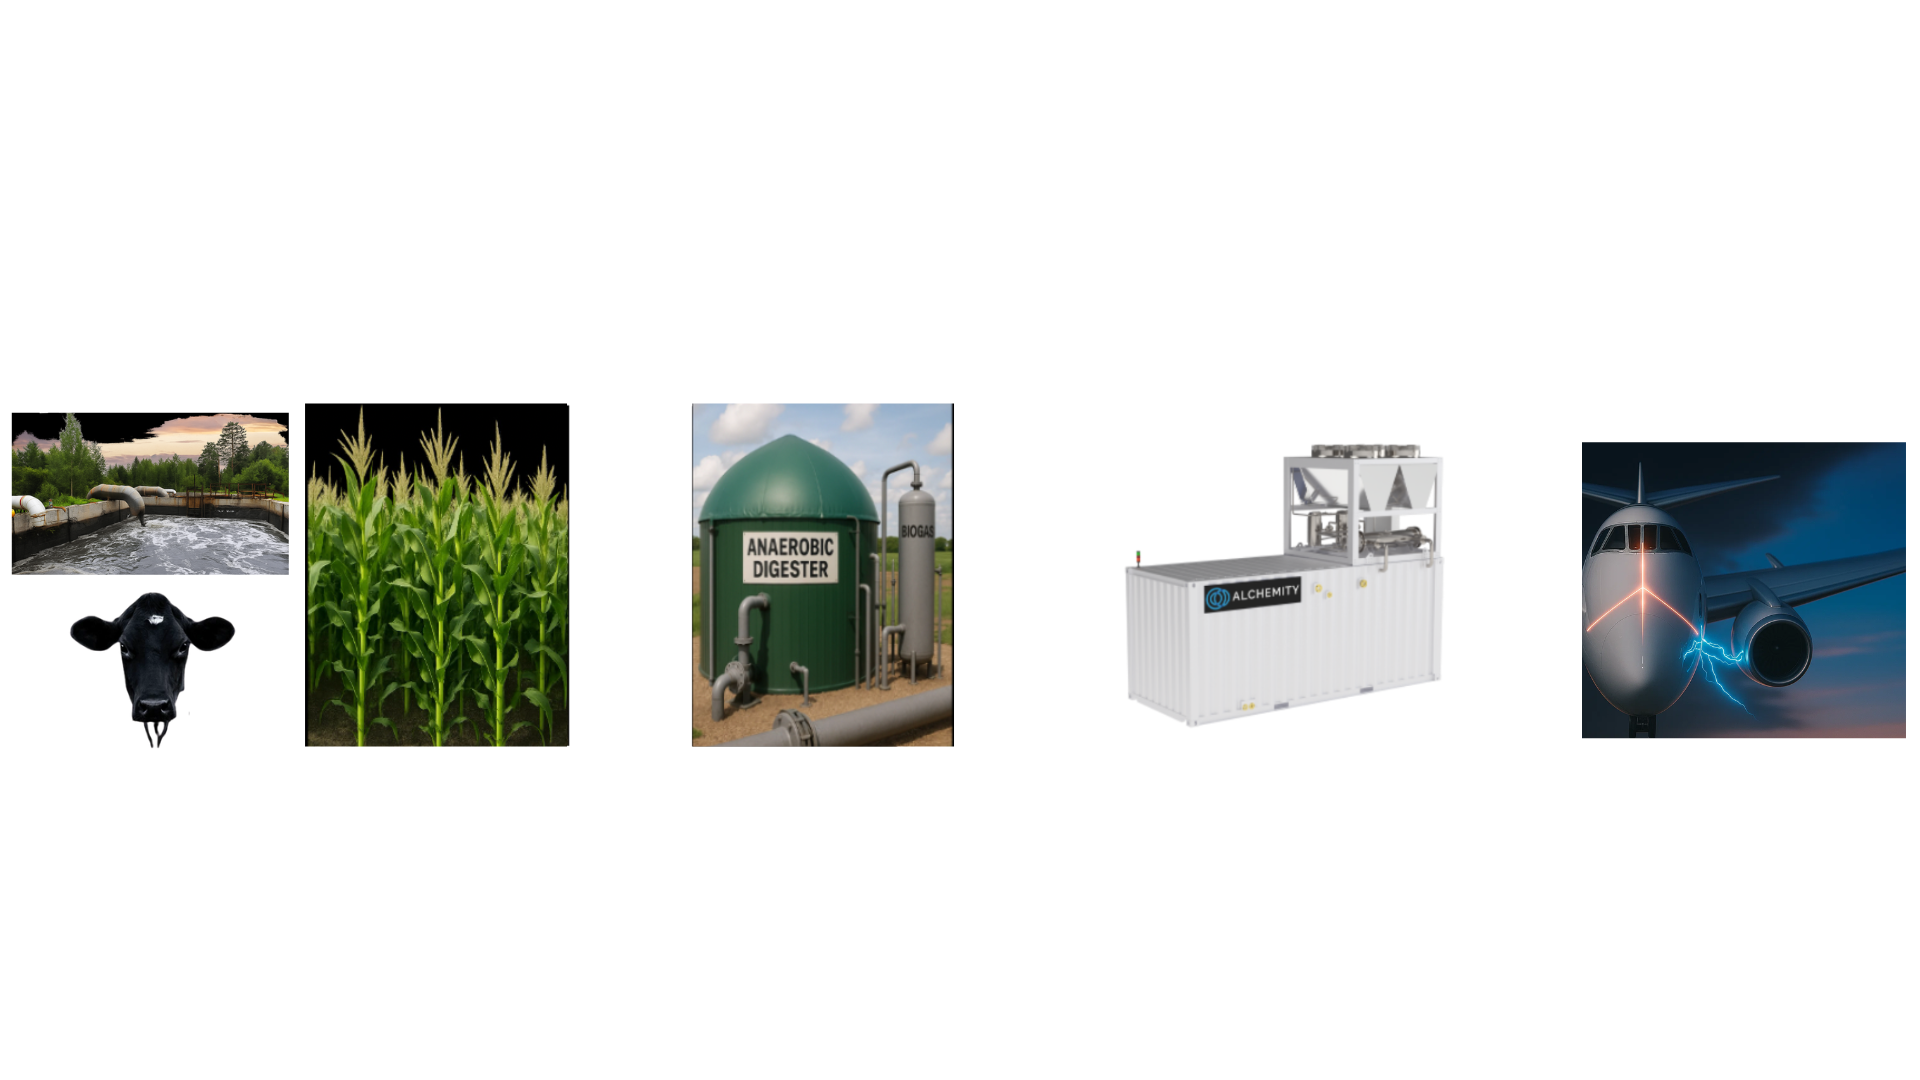
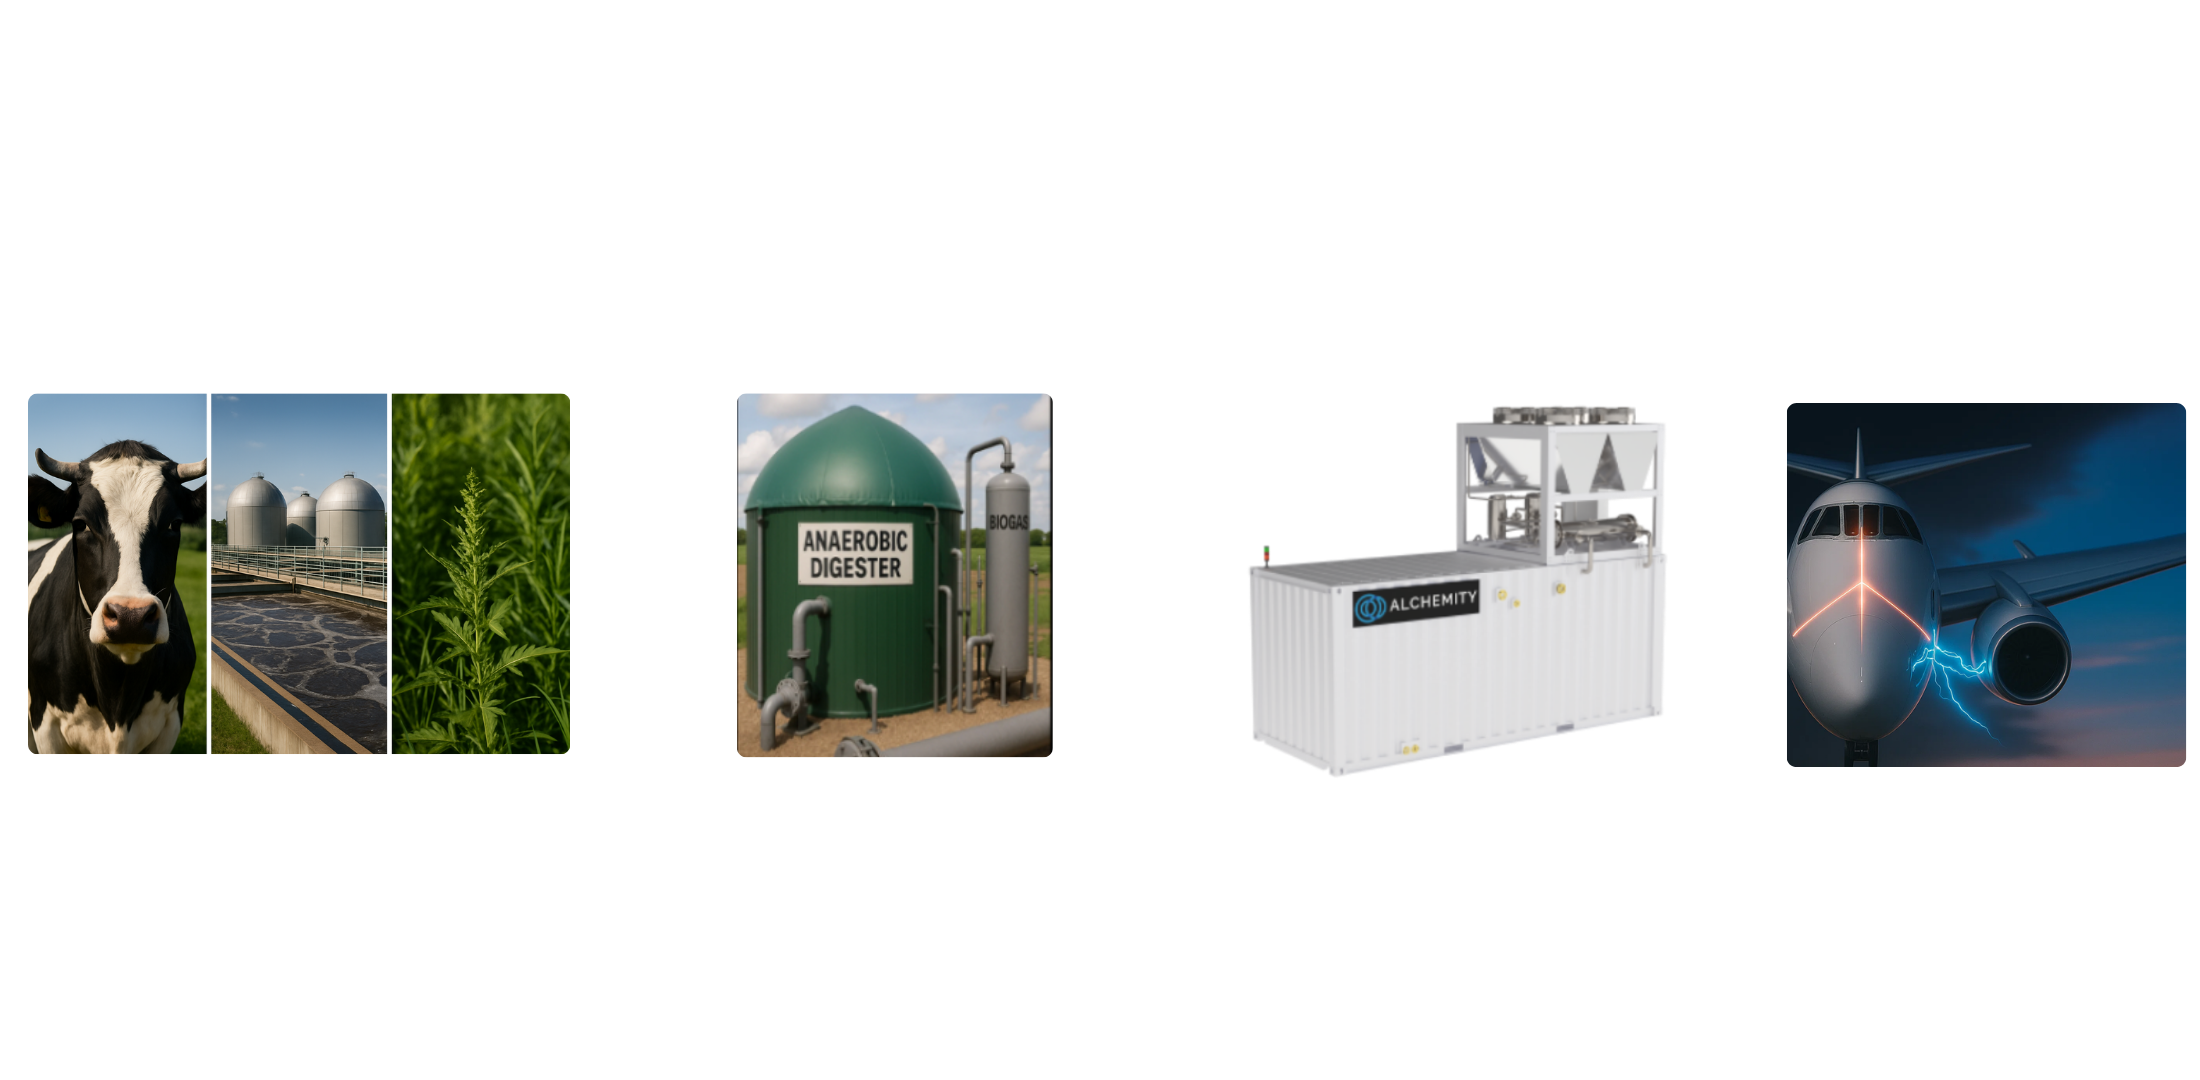
technology images updates

Changed region(s): [[0.0, 0.3667, 0.5, 0.7028], [0.8125, 0.3667, 1.0, 0.7333], [0.5625, 0.3667, 0.7812, 0.7333]]

diff --git a/src/pages/Technology.js b/src/pages/Technology.js
@@ -745,7 +745,7 @@ function Technology() {
               alt="Technology Header"
               style={{
                 width: "100%",
-                maxWidth: "700px",
+                maxWidth: "780px",
                 height: "auto",
                 borderRadius: "8px",
                 margin: "0 auto",
@@ -1484,7 +1484,7 @@ function Technology() {
                 marginBottom: "-8rem",
                 display: "block",
               }}
-              onClick={() => setActiveModal("biomass")}
+              // onClick={() => setActiveModal("biomass")}
             />
 
             {/* <div style={{ display: 'flex', justifyContent: 'center' }}>

diff --git a/src/pages/About.js b/src/pages/About.js
@@ -501,9 +501,9 @@ function About() {
                 today, not in the distant future. Our game-changing reactor core
                 does not require complex manufacturing, nor precious metals and
                 leverages existing scaled manufacturing and supply chain.
-              </p>
+                <p style={{textAlign: 'center'}}><em>But technology alone is not enough.</em></p>
 
-              <p>But technology alone is not enough.</p>
+              </p>
 
               <h3
                 style={{

diff --git a/src/pages/Products.js b/src/pages/Products.js
@@ -1342,7 +1342,7 @@ function Products() {
                     color: "transparent",
                   }}
                 >
-                  Products
+                  Product
                 </span>
               </h1>
 
